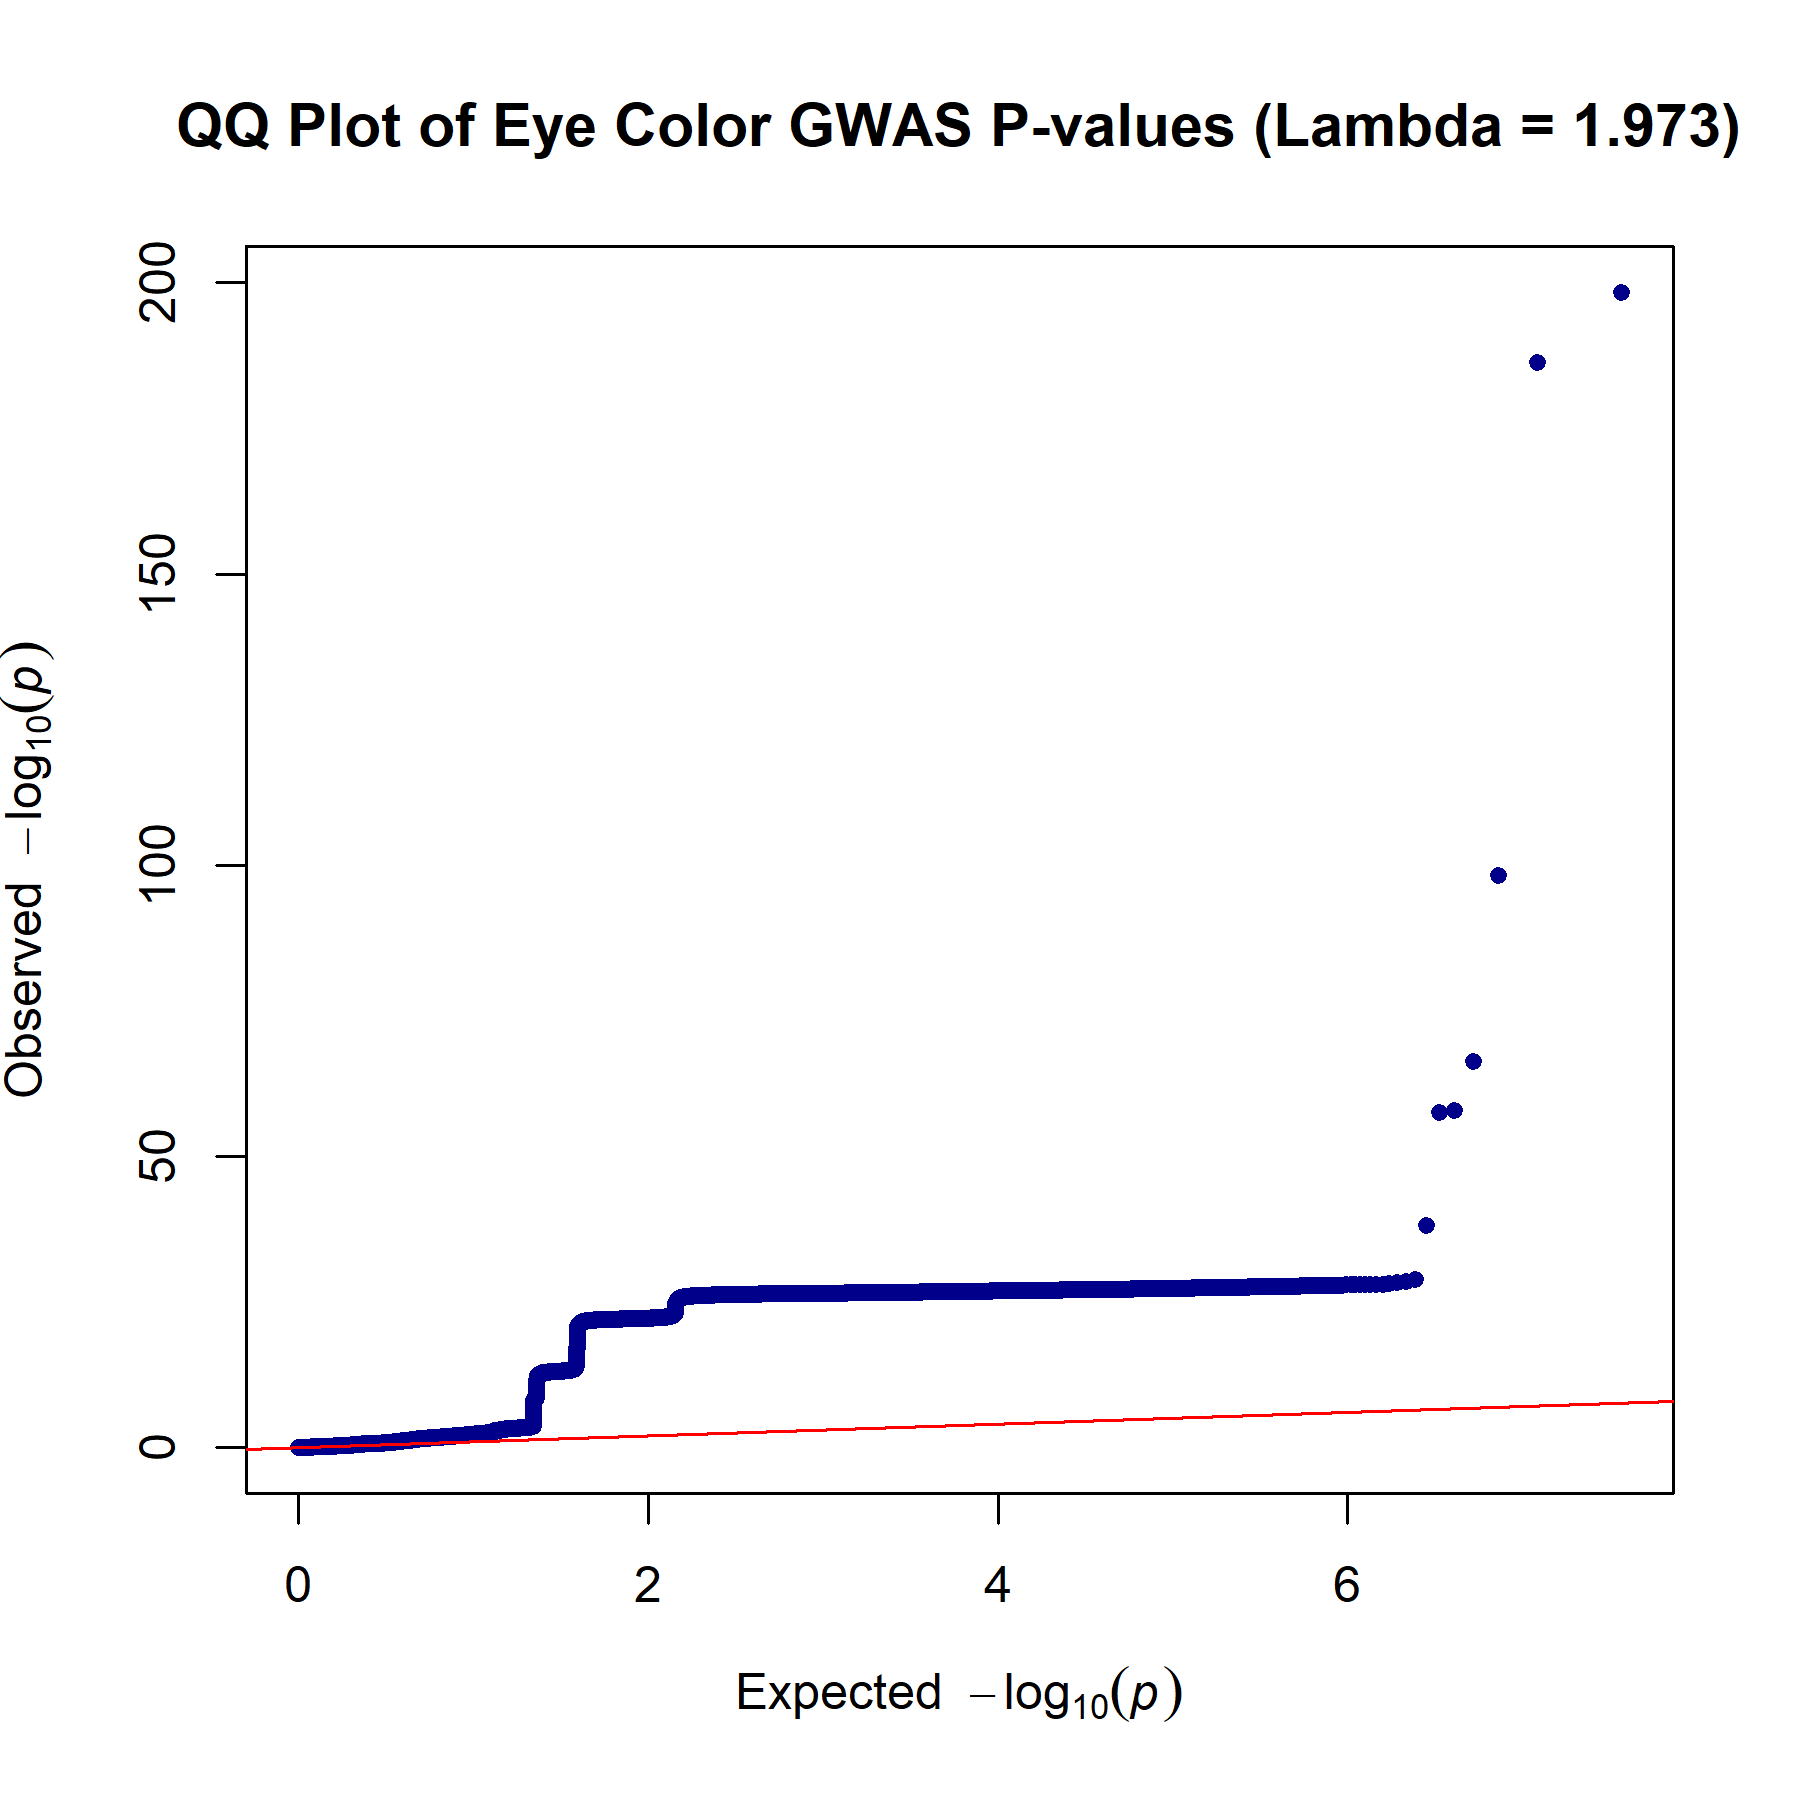
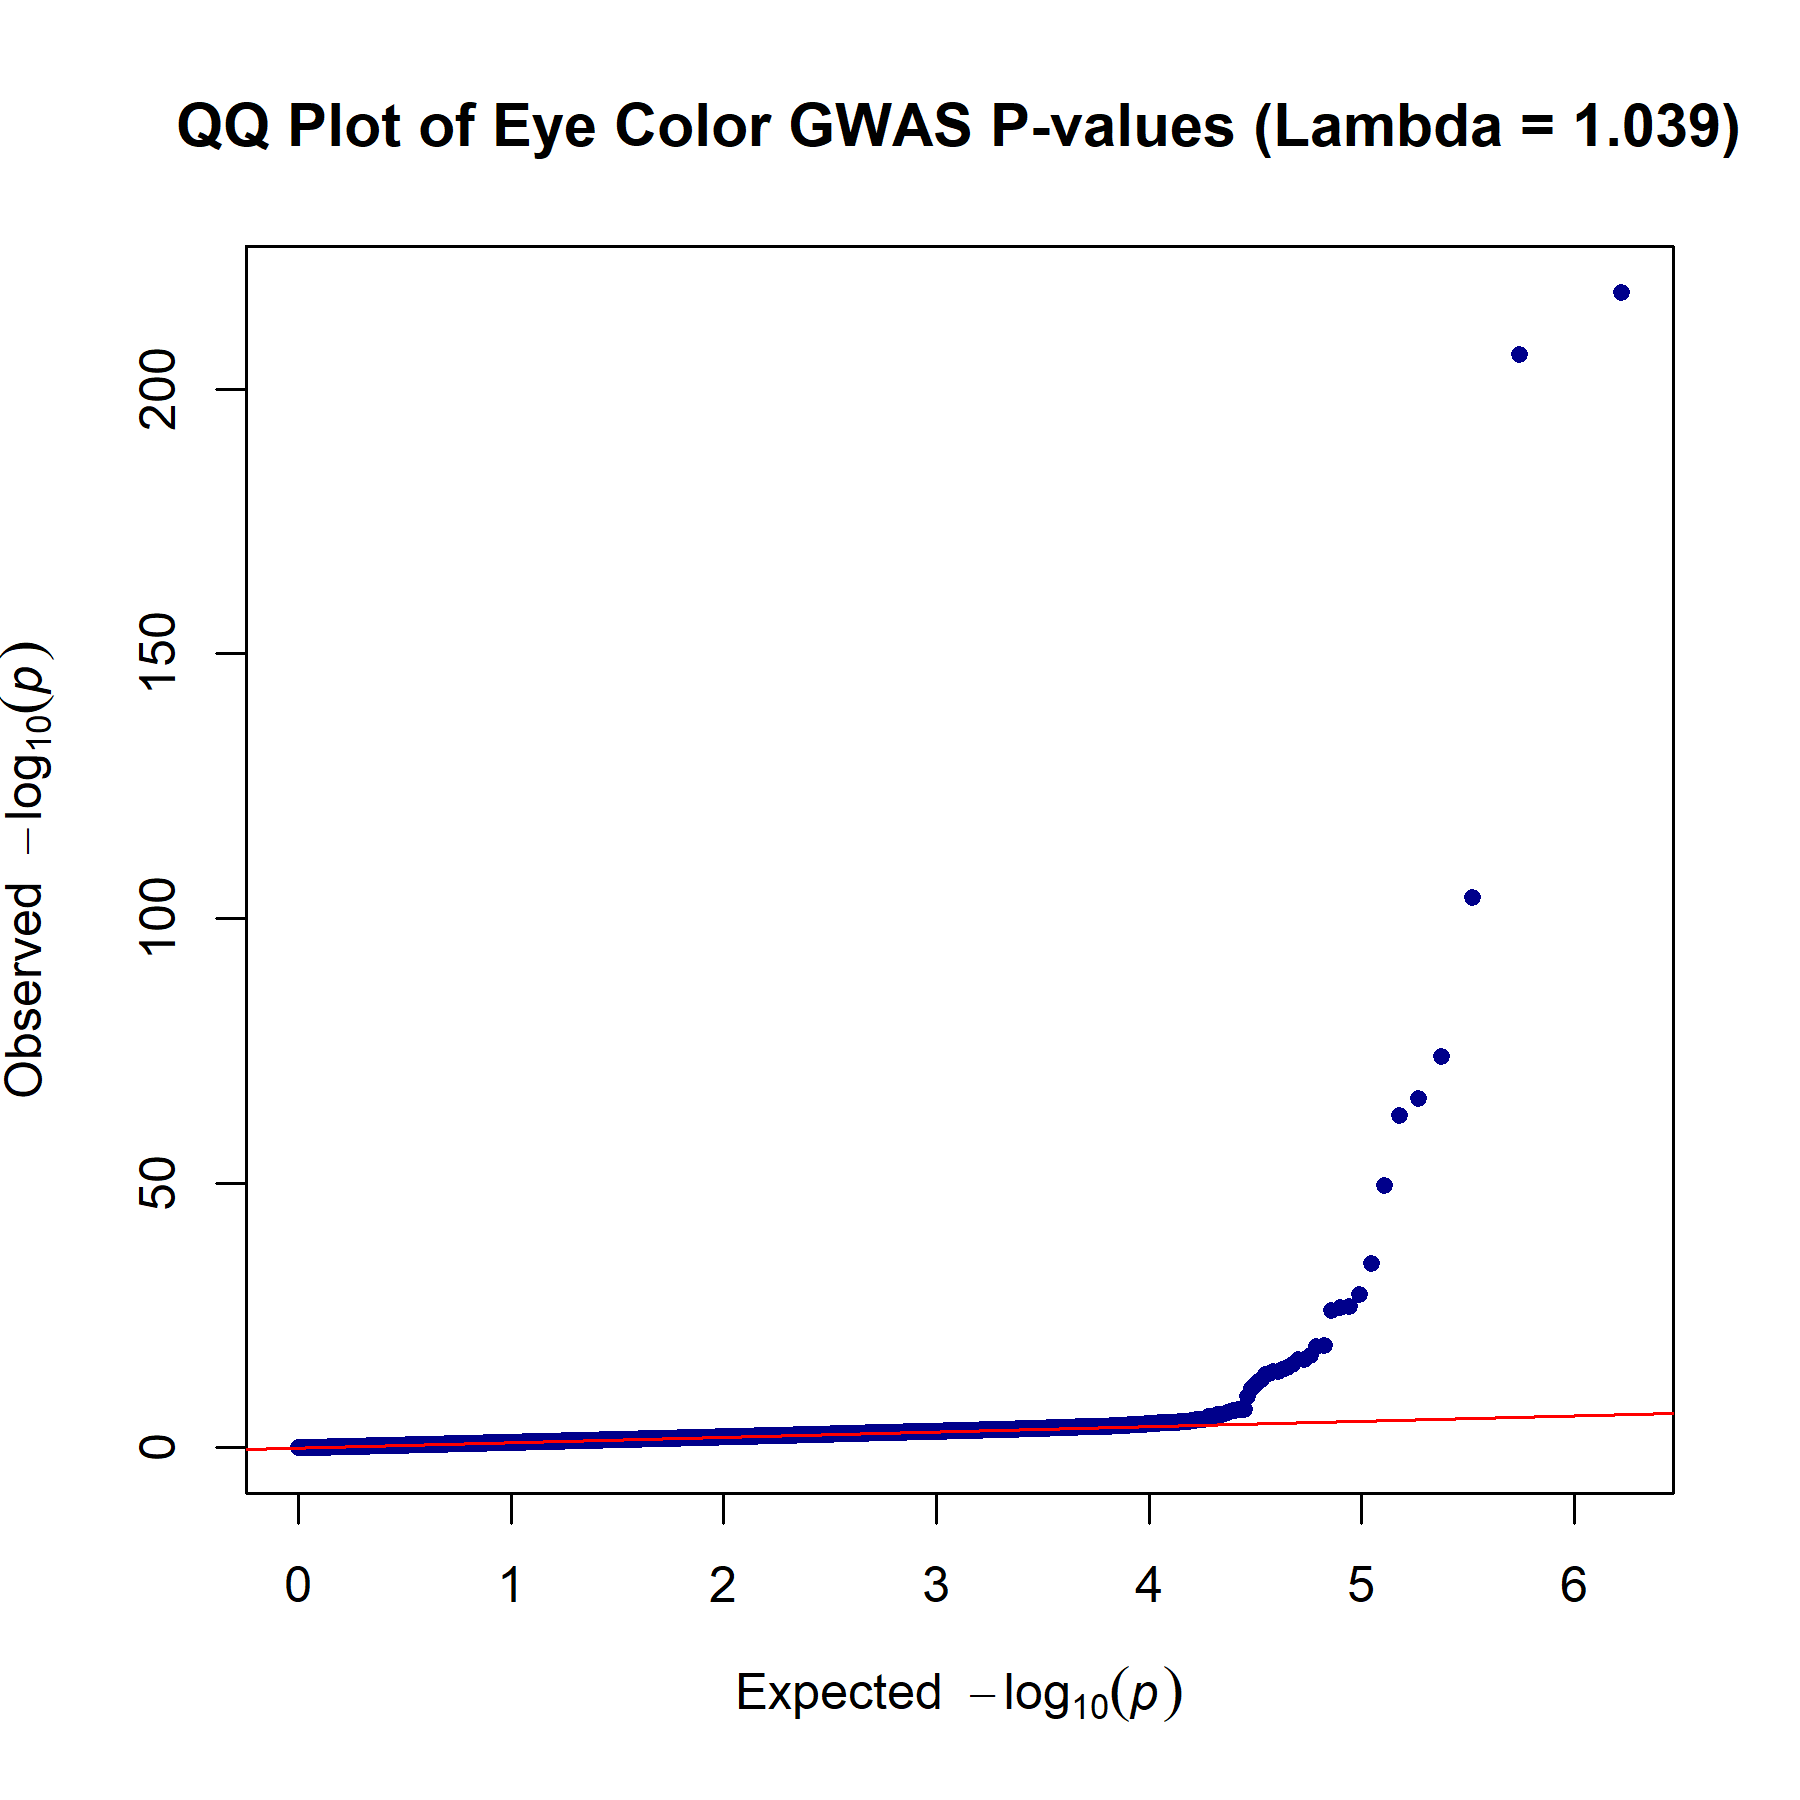
updated R scripts - cleaned GWAS files - conditional analysis

diff --git a/gwas_project_v3/main_workflow.md b/gwas_project_v3/main_workflow.md
@@ -1753,16 +1753,14 @@ You need a file containing the FID, IID, phenotype score, and the genotype (0, 1
 
 1.  **Create a list file for PLINK containing just the top SNP:**
  
-    # In your terminal
-    # Replace rsXXXXXX with your actual TOP_GWAS_SNP_ID
+
     echo "rs12913832" > top_snp_for_recode.txt 
   
 
 2.  **Use PLINK to recode genotypes for this SNP into an additive format (0, 1, 2) and output to a text file:**
     The input bfile should be your final QCed super-core dataset.
    
-    # Replace ${N_super_core} with the actual number (e.g., 897)
-    # Replace rsXXXXXX with your actual TOP_GWAS_SNP_ID
+
     GWAS_INPUT_BFILE_BASENAME="gwas_core_1124"
     TOP_SNP_ID_VAR="rs12913832" 
 
@@ -1797,7 +1795,7 @@ This analysis is relatively quick, directly uses your data, provides visual insi
 
 If you want to do the conditional analysis instead/additionally, let me know, and I can detail those steps. But the phenotype distribution plot is a very good, straightforward choice.
 
-**esther being crazy**
+**discussion**
 Your Data:
 Your .bim file for rs12913832: 15 rs12913832 0 28365618 A G
 This means A1 = 'A', A2 = 'G'.
@@ -1821,3 +1819,39 @@ Heterozygous individuals (AG; one copy of the 'A' allele) showed a higher propor
 Individuals homozygous for the 'A' allele (AA; two copies) almost exclusively had brown eyes (Category 3).
 (Insert your plot here)
 This observed pattern directly aligns with the established biological understanding of rs12913832, where the G allele is associated with reduced OCA2 expression and lighter eye colors (blue), and the A allele is associated with higher OCA2 expression and darker eye colors (brown). Our findings for this SNP strongly support its major role in eye color determination and validate the general coherence of our phenotype and genotype data for this key locus.
+
+
+
+# Additional Analsysi D.2: Conditional analysis using rs12913832 as a covariate to look for *secondary* hits
+
+Since our only major hit was the rs12913832 SNP, we desiced to run a conditional analysis to see if there were any secondary hits hidden by the string signlar from rs12913832. 
+
+plink \
+  --bfile   final_analysis_cohort_hwe_filtered        \  # 1 196 ind · 949 579 SNPs
+  --pheno gwas_pheno_1196.txt \
+  --condition rs12913832                              \  # absorb the big effect
+  --linear                                            \  # same model as before
+  --covar   gwas_covariates_7pcs_sex_1194.txt         \  # 7 PCs + sex (or whatever file you used)
+  --allow-no-sex                                      \
+  --out     gwas_cond_rs12913832
+
+
+  plink \
+  --bfile final_analysis_cohort_hwe_filtered \
+  --pheno gwas_pheno_1196.txt \
+  --condition rs12913832 \
+  --linear \
+  --covar gwas_covariates_7pcs_sex_1194.txt \
+  --allow-no-sex \
+  --out gwas_cond_rs12913832
+
+
+*Results*
+
+no new loci were significant - lambda = 1
+
+After conditioning, tthe most significant conditional SNP was rs1800407 on chromosome 15 (P = 1.753e-07, −log₁₀P ≈ 6.7), well below the genome-wide threshold and >190 orders of magnitude smaller than the original HERC2/OCA2 spike, demonstrating that every previously inflated SNP was tagging rs12913832 through LD.
+
+Because rs12913832 in the HERC2/OCA2 enhancer explains the bulk of the eye-colour variation, we repeated the GWAS with this SNP included as a covariate.
+After conditioning, the genomic-control factor dropped to λGC = 1.00 and the QQ plot followed the null expectation throughout (Figure X).
+No SNPs reached the conventional genome-wide threshold of 5 × 10⁻⁸ (Figure gwas_manhattan_plot_gwas_cond_rs12913832.png), indicating that the primary signal on chromosome 15 fully accounts for the association landscape in this cohort. 
